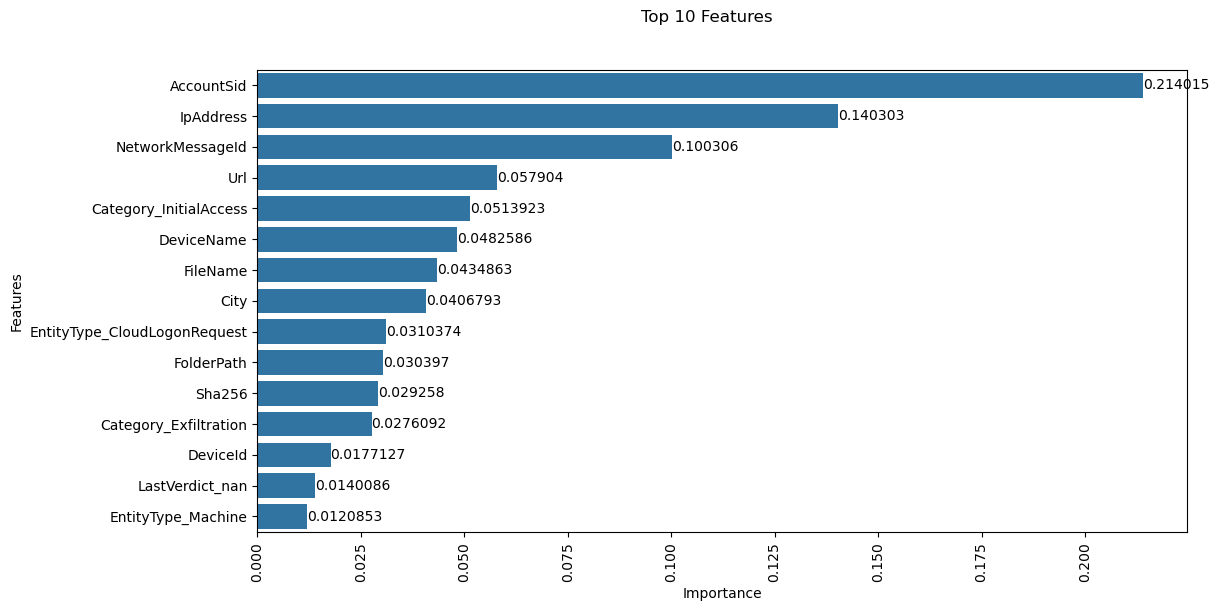
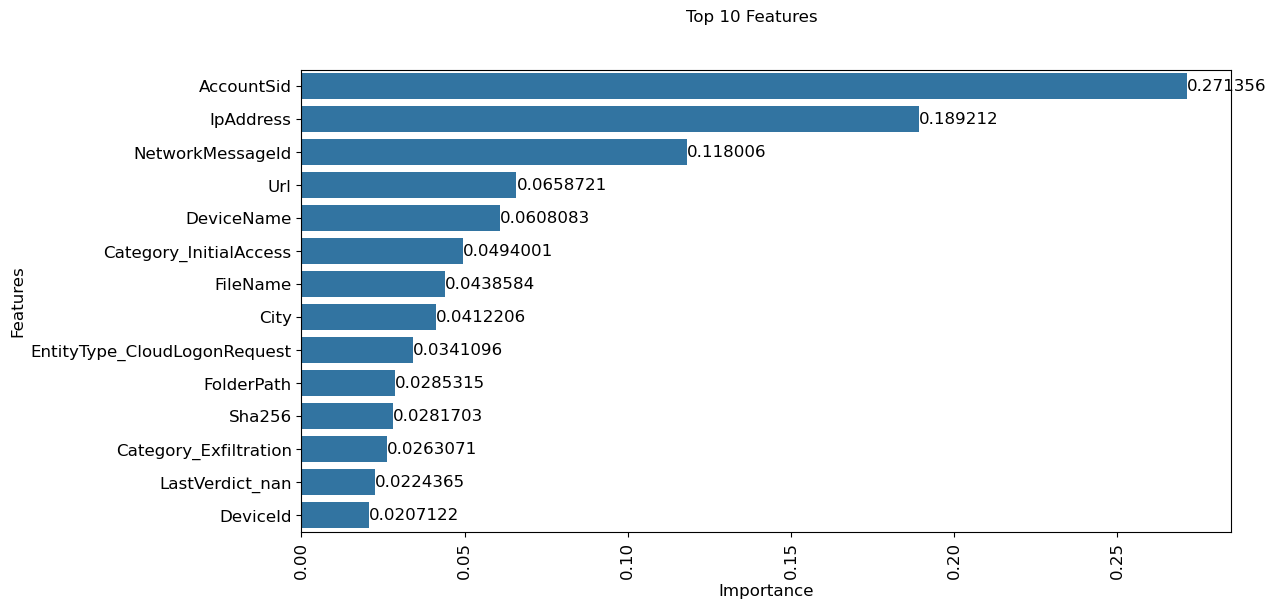
changed the predictions sample, fixed typos in readme.md

Changed region(s): [[0.0, 0.0936, 0.9975, 0.9984], [0.5299, 0.0, 0.6546, 0.0624], [0.187, 0.9048, 0.2494, 0.936]]

diff --git a/README.md b/README.md
@@ -95,33 +95,34 @@ All numerical features in this dataset represent discrete values. Some of the fe
 
 - ROC/AUC curve
 
-    <img src="plots/rf-rocauc.png" alt="ROC-AUC curve" width="400">
+    The model's predictions cover an AUC i.e area under curve of 70% for TP, 73% for FP. Ideally these curves should be cover a larger area expanding towards the top left of the chart
+
+    <img src="plots/rf-rocauc.png" alt="ROC-AUC curve" width="500">
 
 - Top contributing features
 
-    <img src="plots/Top10Features.png" alt="Top 10 features" width="500">
+    <img src="plots/Top10Features.png" alt="Top 10 features" width="600">
 
 - Further exploration was done with Randomized Search CV (50 models) and restriction the model to top contributing features. The final Macro F1 scores of these experiments were very similar to results shared here. The details are in the linked Jupyter notebook.
 
-- To help understand the contribution of various features to a single prediction, 'treeinterpreter' and 'waterfall' libraries were used. Here it predicts TP for a single alert by producing three different scores for BP, FP and TP [[0.18675794 0.03887698 0.77436508]], thus predicting the majority class
+- To help understand the contribution of various features to a single prediction, 'treeinterpreter' and 'waterfall' libraries were used. Here it predicts TP for a single alert by producing three different probability scores for BP, FP and TP [[0.10477976 0.42804762 0.46717262]] respectively, thus predicting the majority class i.e. True Positive
 
     <img src="plots/featurecontributionofprediction.png" alt="Top 10 features" width="500">
 
 
 ### Conclusion
 
-SOCs demand very high F1 scores before an action further can be undertaken by automation or human intervention. The goal is to catch as many real events (requiring high precision), and not miss any real attack (high recall i.e. reduce false negatives). 
+SOCs demand very high F1 scores before an action may be undertaken by automation or humans. The goal is to catch as many real events (requiring high precision), and not miss any real attacks (high recall i.e. reduce false negatives). The macro F1 scores of 71% for True Positives (TP), 64% for False Positives (FP), 68% for Benign Positives (BP) would not be considered high in SOC environments, and may require a further triage before actions may be taken.
 
-The macro F1 scores of 71% for True Positives (TP), 64% for False Positives (FP), 68% for Benign Positives (BP) would not be considered high in SOC environments where thresholds would be aruond 90%. Further more the top 10 contributing features, do not explain more than 50% of the variance seen in the target variable. Also i am not sure why IPAddress is being marked as one of the top contributing feature. This will make the deployment of such a model complicated as IP addresses may change or new devices may get added in that may require constant revisions to the model.
+The model considers account information, ip address, network message Id, Url, and device name as top contributing features i.e. the features that have the most impact on determining whether an alert should be marked as TP, FP or BP. While this is intuitive based on past labeled data, it complicates the deployment of the model as introduction of new devices or services in the network will require periodic revisions (re-fitting) to the model. Additional discussions are needed with an SME to understand the processes within a SOC around user/device life-cycle and introduction of new services.
 
-Futher work is needed to achieve higher F1 scores before it may be considered for deployment in a SOC and perhaps identifying additional features that may help make a better fitting model.
+Additional feature additional, feature engineering work, and model development/tuning is needed to achieve higher F1 (>90%) scores before it may be considered for deployment in a SOC environment.
 
 ### Next steps
 
-- Investigage the data acquisition pipeline, and explore whether any additional features could have been included in the data set
-- Exploring engineering additional features from the available set of features
+- Investigate the data acquisition pipeline, and explore whether any additional features could be included in the data set
+- Explore engineering additional features from the available set of features
 - Explore sequential model building - convert the 3 classes into a binary classification problem (TP and Not TP) and evaluate if that improves results for TP. If it does, a 2nd model can be built that predicts for FP vs BP.
 - Increase the size of data set used in the evaluation to capture more variation and perhaps increase the feature contribution to the target variable
 - Further fine tune the hyper paremeters for the Random Forest
-- Explore other models, such as AdaBoost or DeepLearning, and diving back into SVM, LR using better compute resources
-
+- Explore other classification models, such as AdaBoost, and dive back into Support Vector Machines and Logistic Regression using better compute resources
